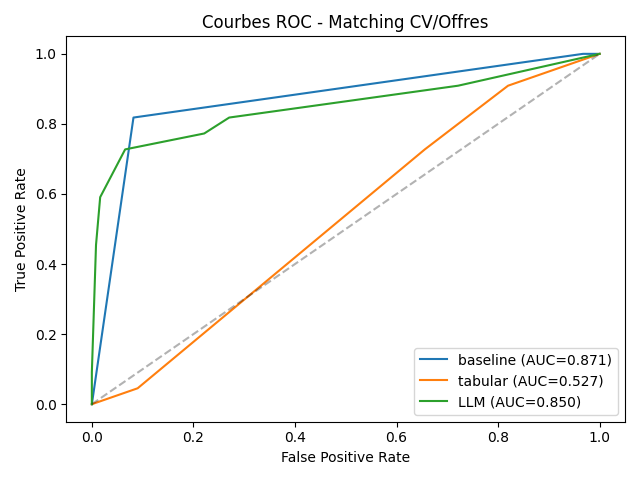
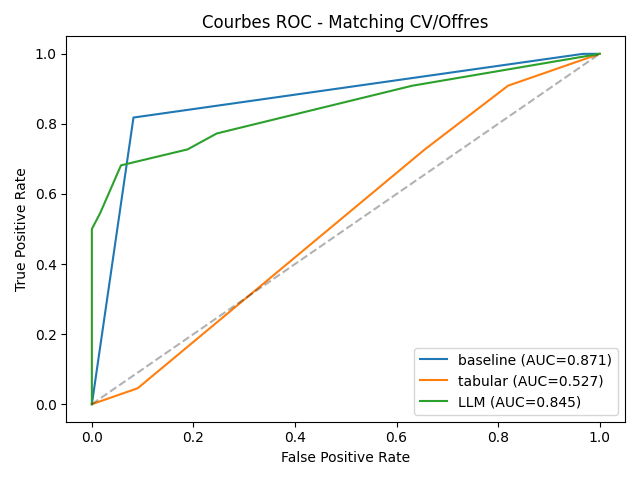
small update

diff --git a/main.py b/main.py
@@ -69,7 +69,7 @@ prompt = PromptTemplate(
         "Le score doit se baser sur les compétences, les expériences et la formation du candidat.\n"
         "Donne un score élevé uniquement si le CV mentionne clairement des compétences ou expériences réellement utiles pour ce poste.\n"
         "Si le CV ne cite aucune compétence pertinente, donne un score faible (proche de 0).\n"
-        "Ne prends pas en compte la langue ni le niveau social, seulement les critères métier/technique.\n"
+        "Ne prends pas en compte le niveau social, seulement les critères métier/technique et les langues.\n"
         "CV :\n{cv}\nJob :\n{job}"
     ),
 )
